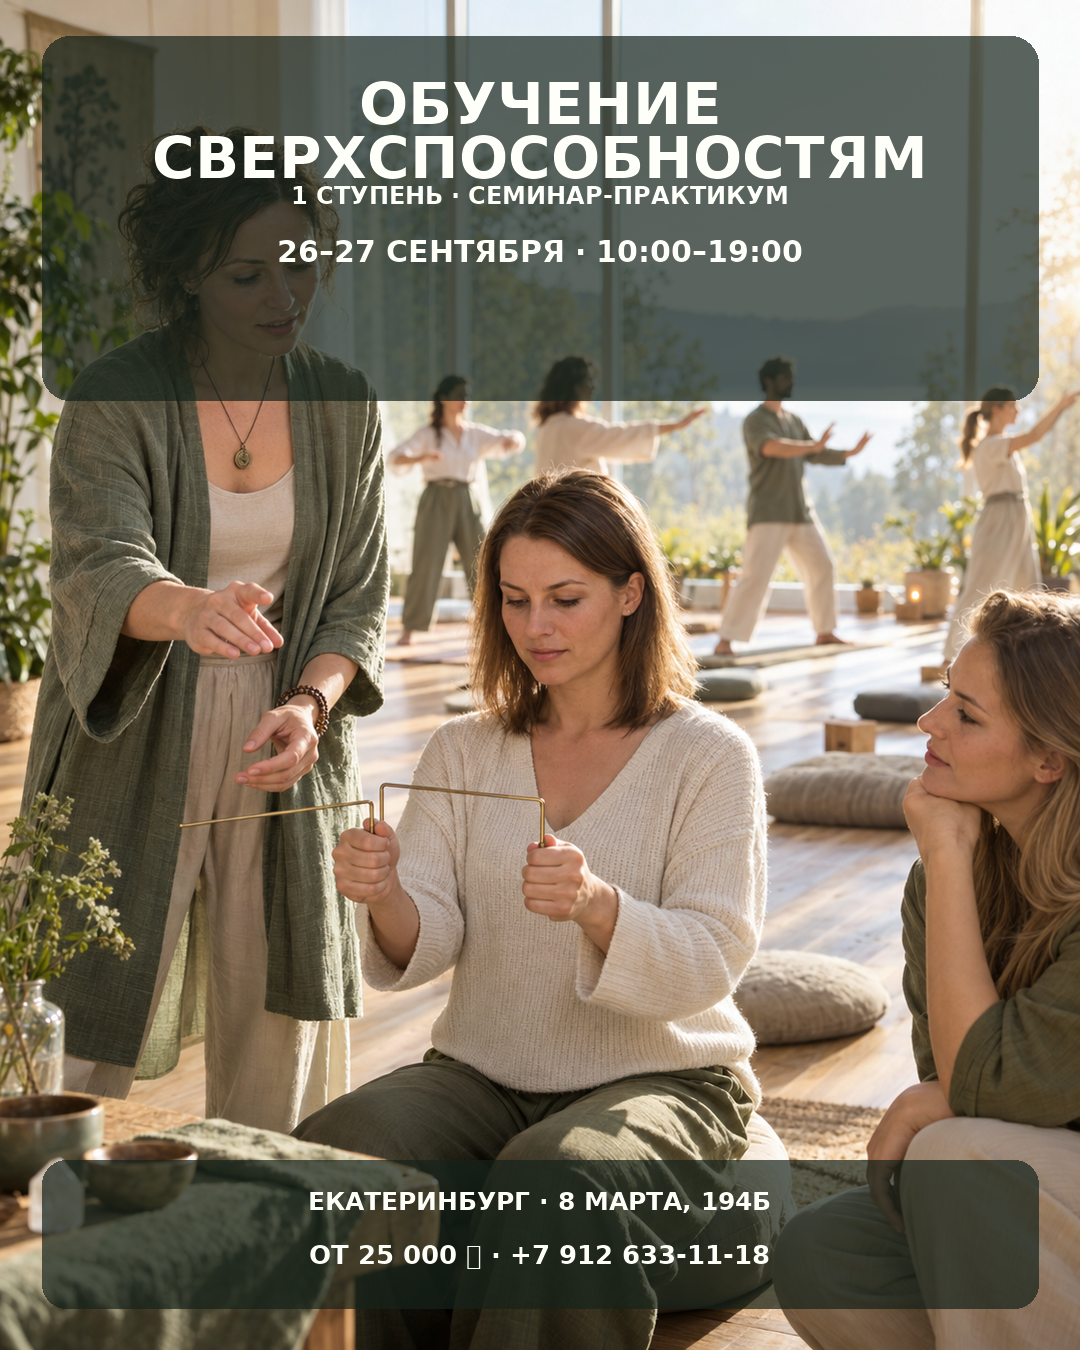
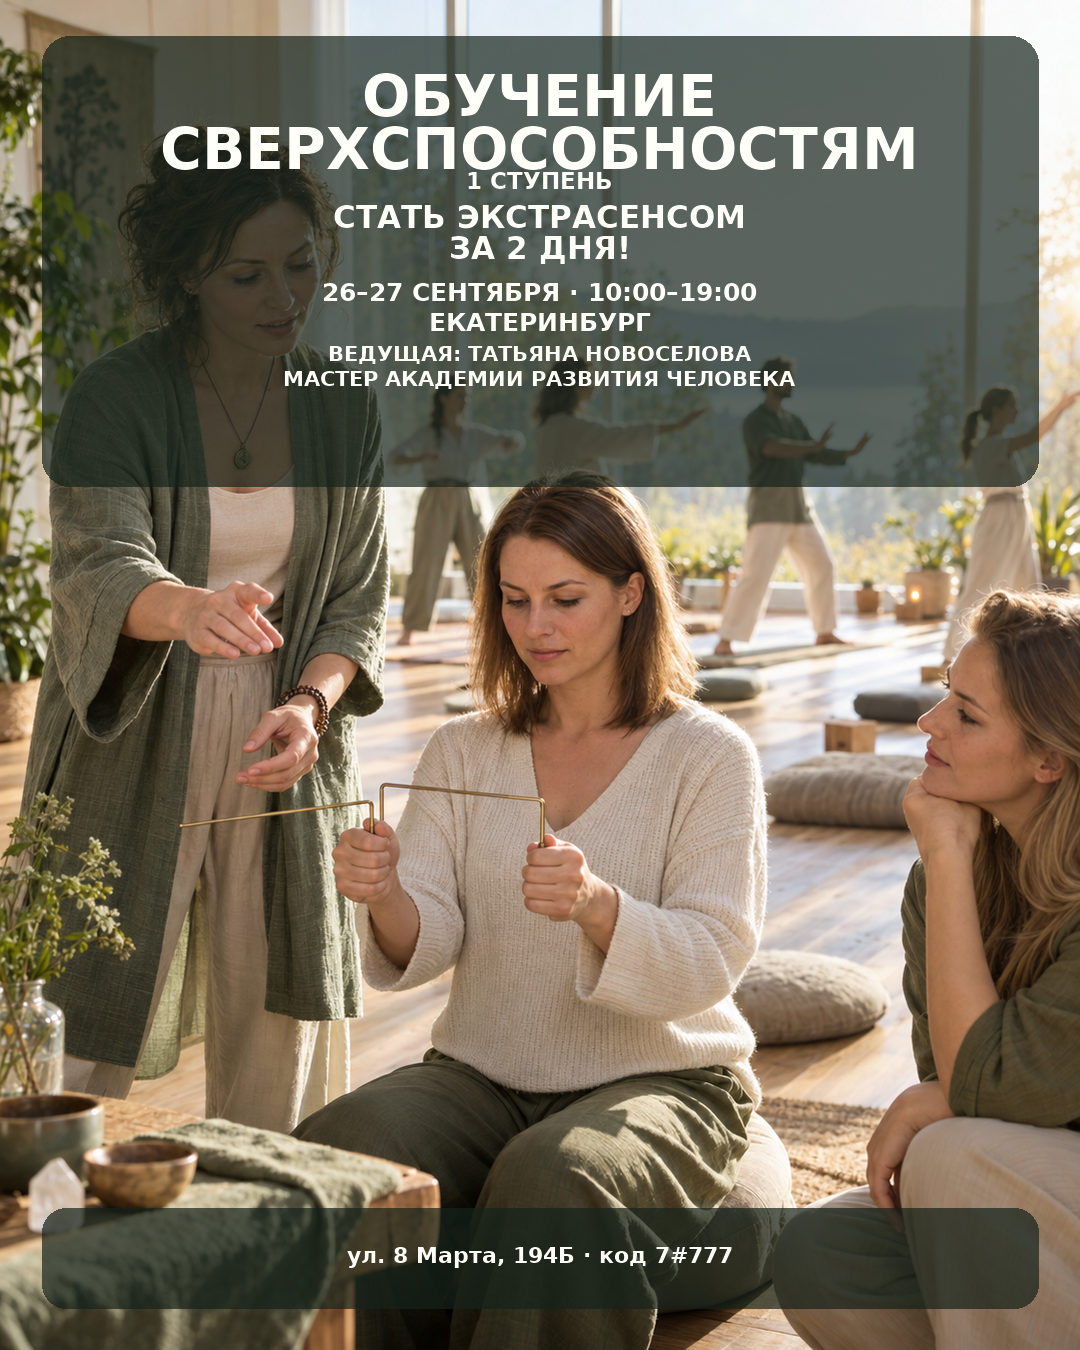
Refine poster information hierarchy

Changed region(s): [[0.0306, 0.0311, 0.9778, 0.3733], [0.0306, 0.84, 0.9778, 0.9333]]

diff --git a/scripts/build_event_posters.py b/scripts/build_event_posters.py
@@ -43,16 +43,19 @@ def draw_centered(draw: ImageDraw.ImageDraw, text: str, y: int, fnt, fill, spaci
 def add_copy(image: Image.Image, panel_color, text_color) -> Image.Image:
     layer = Image.new("RGBA", (W, H), (0, 0, 0, 0))
     draw = ImageDraw.Draw(layer)
-    draw.rounded_rectangle((42, 36, W - 42, 400), radius=28, fill=panel_color)
-    draw.rounded_rectangle((42, H - 190, W - 42, H - 42), radius=24, fill=panel_color)
+    draw.rounded_rectangle((42, 36, W - 42, 486), radius=28, fill=panel_color)
+    draw.rounded_rectangle((42, H - 142, W - 42, H - 42), radius=24, fill=panel_color)
 
-    y = draw_centered(draw, "ОБУЧЕНИЕ\nСВЕРХСПОСОБНОСТЯМ", 70, font(BOLD, 58), text_color, 0)
-    y += 13
-    draw_centered(draw, "1 СТУПЕНЬ · СЕМИНАР-ПРАКТИКУМ", y, font(BOLD, 24), text_color)
-    y += 53
-    draw_centered(draw, "26–27 СЕНТЯБРЯ · 10:00–19:00", y, font(BOLD, 30), text_color)
-    draw_centered(draw, "ЕКАТЕРИНБУРГ · 8 МАРТА, 194Б", H - 164, font(BOLD, 25), text_color)
-    draw_centered(draw, "ОТ 25 000 ₽ · +7 912 633-11-18", H - 111, font(BOLD, 26), text_color)
+    y = draw_centered(draw, "ОБУЧЕНИЕ\nСВЕРХСПОСОБНОСТЯМ", 63, font(BOLD, 57), text_color, 0)
+    y += 7
+    y = draw_centered(draw, "1 СТУПЕНЬ", y, font(BOLD, 23), text_color)
+    y += 15
+    y = draw_centered(draw, "СТАТЬ ЭКСТРАСЕНСОМ\nЗА 2 ДНЯ!", y, font(BOLD, 31), text_color, 2)
+    y += 18
+    y = draw_centered(draw, "26–27 СЕНТЯБРЯ · 10:00–19:00\nЕКАТЕРИНБУРГ", y, font(BOLD, 25), text_color, 6)
+    y += 16
+    draw_centered(draw, "ВЕДУЩАЯ: ТАТЬЯНА НОВОСЕЛОВА\nМАСТЕР АКАДЕМИИ РАЗВИТИЯ ЧЕЛОВЕКА", y, font(BOLD, 21), text_color, 5)
+    draw_centered(draw, "ул. 8 Марта, 194Б · код 7#777", H - 108, font(BOLD, 22), text_color)
     return Image.alpha_composite(image.convert("RGBA"), layer)
 
 

diff --git a/.Codex/skills/event-media-visuals/SKILL.md b/.Codex/skills/event-media-visuals/SKILL.md
@@ -18,9 +18,9 @@ description: "Создаёт готовые для публикации изоб
    - символическая: магическая и образная, только если это уместно для темы; иначе — премиальная, предметная или природная интерпретация.
    Не повторяй между ними главный сюжет, ракурс, доминирующую палитру и действие.
 5. Сделай четвёртый, дополнительный визуал — отдельную 3D-стилизованную афишу в зацикленном GIF. Это самостоятельный четвёртый концепт, а не анимация одной из трёх статичных афиш. Специально выбери композицию, в которой есть минимум два естественно движущихся элемента: искры и объёмный свет для огня/металла; вода и туман; ткань и волосы на ветру; трава и солнечные блики; дым и мерцание. Если исходная тема не даёт таких элементов, построй сюжет вокруг уместного источника света, воздуха, воды или материалов — но не добавляй чужеродную магию. Не двигай картинку целиком, не делай зум, тряску или беспричинную анимацию. Текст и информационные плашки остаются неподвижными. GIF не содержит звук.
-6. На каждой афише обязательно размещай основной текст события: выразительный заголовок и, если он есть в исходнике, центральный оффер или смысл в 1–3 коротких строках. Это главный текстовый акцент изображения, а не только дата, цена или адрес. Генерируй художественную основу без мелкого текста; точный основной текст и факты накладывай отдельной вёрсткой, чтобы даты, цены, имена и контакты были без ошибок. На афише оставляй основной текст и не более пяти самых важных фактов; визуал должен занимать большую часть кадра.
+6. В каждой афише используй единый порядок текста. Крупно — название события, максимум в две строки. Сразу под ним — главная мысль или оффер из исходника, в одну-две строки и заметно меньше названия. Средним кеглем — дата, время, город и ведущий, если он указан. Мелко внизу — точный адрес. Цена, телефон, программа и остальные данные по умолчанию остаются в подписи к посту; добавляй их на афишу только по явной просьбе. Генерируй художественную основу без мелкого текста; точные строки накладывай отдельной вёрсткой, чтобы не было ошибок. Визуал должен занимать большую часть кадра.
 7. Если исходник длинный — больше 700 знаков либо содержит больше пяти существенных фактов — подготовь ещё три самостоятельных поста: для Telegram, ВК и MAX. Адаптируй структуру, но не искажай факты. Умеренно используй эмодзи: для навигации и акцентов, не в каждой строке.
-8. Перед выдачей проверь все четыре файла: формат и размеры, читаемость на уменьшенном превью, отсутствие обрезанного текста, бессмысленных надписей, водяных знаков и деформированных рук/лиц. Сверь напечатанный текст с исходными данными. При провале проверки исправь результат до выдачи.
+8. Перед выдачей проверь все четыре файла: формат и размеры, читаемость на уменьшенном превью, порядок текстовых уровней, отсутствие обрезанного текста, бессмысленных надписей, водяных знаков и деформированных рук/лиц. Сверь напечатанный текст с исходными данными. При провале проверки исправь результат до выдачи.
 
 # Структура результата
 
@@ -39,6 +39,7 @@ description: "Создаёт готовые для публикации изоб
 - Не выдавай GIF за настоящее видео или звук. Если доступна только 2D-анимация, честно описывай её как 3D-стилизованный GIF с глубиной, объёмным светом и локальным движением.
 - Не помещай в изображение длинный продающий текст; он должен жить в подписи к посту.
 - Не заменяй основной текст события на один технический блок с датой, ценой или адресом: зритель должен сразу понимать, что это за событие и зачем оно ему.
+- Не выноси на афишу цену, телефон и длинную программу, если пользователь явно этого не просил.
 - Не используй один и тот же персонаж, фон или композицию в трёх статичных вариантах.
 - Если приложена фотография человека и пользователь просит показать его, сохраняй узнаваемость и не подменяй личность другим человеком.
 - Не добавляй магические символы, религиозные мотивы или этнические орнаменты без опоры на тему или исходные материалы.

diff --git a/event-media-visuals-SKILL.md b/event-media-visuals-SKILL.md
@@ -18,9 +18,9 @@ description: "Создаёт готовые для публикации изоб
    - символическая: магическая и образная, только если это уместно для темы; иначе — премиальная, предметная или природная интерпретация.
    Не повторяй между ними главный сюжет, ракурс, доминирующую палитру и действие.
 5. Сделай четвёртый, дополнительный визуал — отдельную 3D-стилизованную афишу в зацикленном GIF. Это самостоятельный четвёртый концепт, а не анимация одной из трёх статичных афиш. Специально выбери композицию, в которой есть минимум два естественно движущихся элемента: искры и объёмный свет для огня/металла; вода и туман; ткань и волосы на ветру; трава и солнечные блики; дым и мерцание. Если исходная тема не даёт таких элементов, построй сюжет вокруг уместного источника света, воздуха, воды или материалов — но не добавляй чужеродную магию. Не двигай картинку целиком, не делай зум, тряску или беспричинную анимацию. Текст и информационные плашки остаются неподвижными. GIF не содержит звук.
-6. На каждой афише обязательно размещай основной текст события: выразительный заголовок и, если он есть в исходнике, центральный оффер или смысл в 1–3 коротких строках. Это главный текстовый акцент изображения, а не только дата, цена или адрес. Генерируй художественную основу без мелкого текста; точный основной текст и факты накладывай отдельной вёрсткой, чтобы даты, цены, имена и контакты были без ошибок. На афише оставляй основной текст и не более пяти самых важных фактов; визуал должен занимать большую часть кадра.
+6. В каждой афише используй единый порядок текста. Крупно — название события, максимум в две строки. Сразу под ним — главная мысль или оффер из исходника, в одну-две строки и заметно меньше названия. Средним кеглем — дата, время, город и ведущий, если он указан. Мелко внизу — точный адрес. Цена, телефон, программа и остальные данные по умолчанию остаются в подписи к посту; добавляй их на афишу только по явной просьбе. Генерируй художественную основу без мелкого текста; точные строки накладывай отдельной вёрсткой, чтобы не было ошибок. Визуал должен занимать большую часть кадра.
 7. Если исходник длинный — больше 700 знаков либо содержит больше пяти существенных фактов — подготовь ещё три самостоятельных поста: для Telegram, ВК и MAX. Адаптируй структуру, но не искажай факты. Умеренно используй эмодзи: для навигации и акцентов, не в каждой строке.
-8. Перед выдачей проверь все четыре файла: формат и размеры, читаемость на уменьшенном превью, отсутствие обрезанного текста, бессмысленных надписей, водяных знаков и деформированных рук/лиц. Сверь напечатанный текст с исходными данными. При провале проверки исправь результат до выдачи.
+8. Перед выдачей проверь все четыре файла: формат и размеры, читаемость на уменьшенном превью, порядок текстовых уровней, отсутствие обрезанного текста, бессмысленных надписей, водяных знаков и деформированных рук/лиц. Сверь напечатанный текст с исходными данными. При провале проверки исправь результат до выдачи.
 
 # Структура результата
 
@@ -39,6 +39,7 @@ description: "Создаёт готовые для публикации изоб
 - Не выдавай GIF за настоящее видео или звук. Если доступна только 2D-анимация, честно описывай её как 3D-стилизованный GIF с глубиной, объёмным светом и локальным движением.
 - Не помещай в изображение длинный продающий текст; он должен жить в подписи к посту.
 - Не заменяй основной текст события на один технический блок с датой, ценой или адресом: зритель должен сразу понимать, что это за событие и зачем оно ему.
+- Не выноси на афишу цену, телефон и длинную программу, если пользователь явно этого не просил.
 - Не используй один и тот же персонаж, фон или композицию в трёх статичных вариантах.
 - Если приложена фотография человека и пользователь просит показать его, сохраняй узнаваемость и не подменяй личность другим человеком.
 - Не добавляй магические символы, религиозные мотивы или этнические орнаменты без опоры на тему или исходные материалы.
